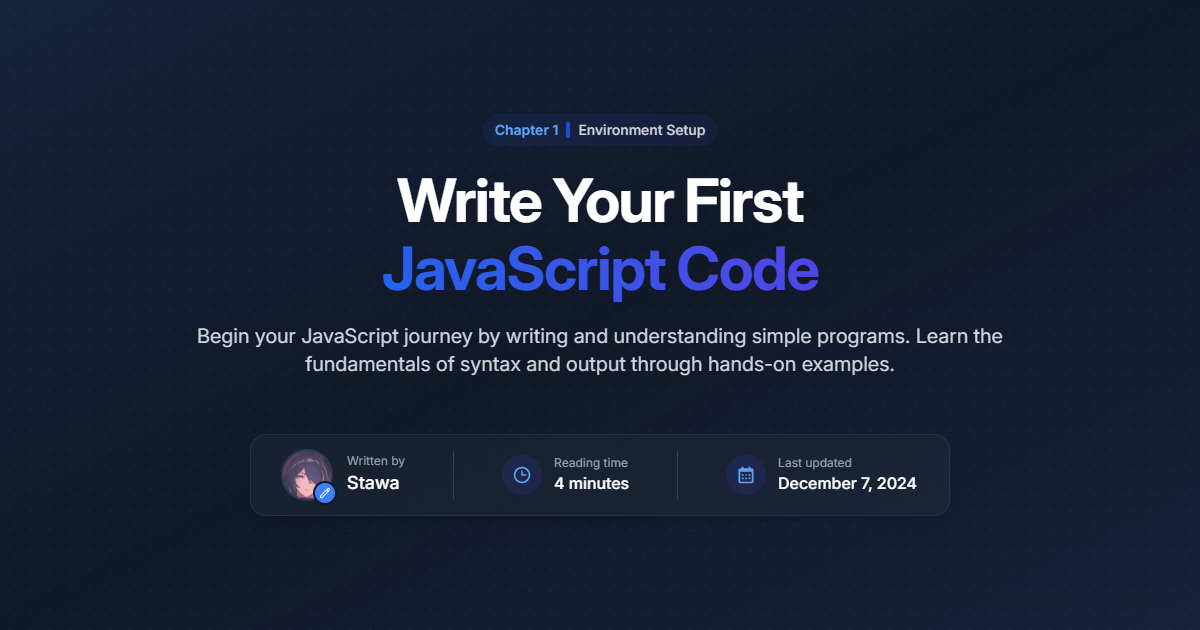
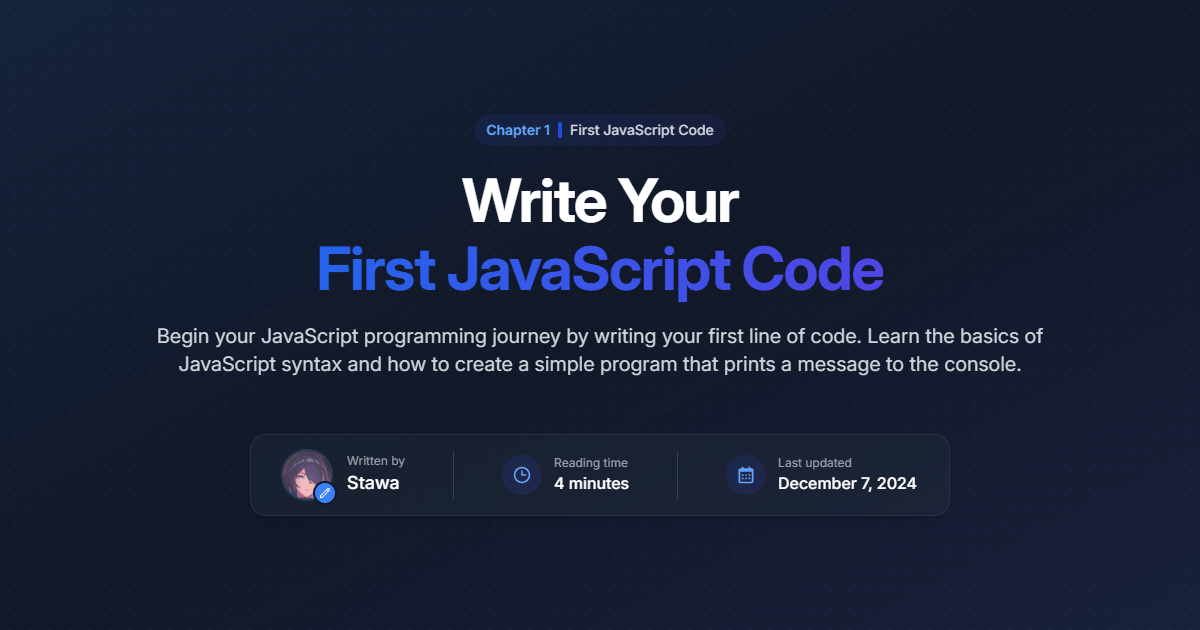
Fix OpenGraph

diff --git a/app/components/Courses/JavaScript/Start/Setup.tsx b/app/components/Courses/JavaScript/Start/Setup.tsx
@@ -270,8 +270,8 @@ export function JavaScriptSetup() {
       title: "Environment Setup",
     },
     title: {
-      main: "Setting Up",
-      sub: "Your JavaScript Environment",
+      main: "Setting Up Your",
+      sub: "JavaScript Environment",
     },
     description:
       "A comprehensive guide to setting up a professional JavaScript development environment. Follow these steps to create an optimal workspace for learning and building JavaScript applications.",
